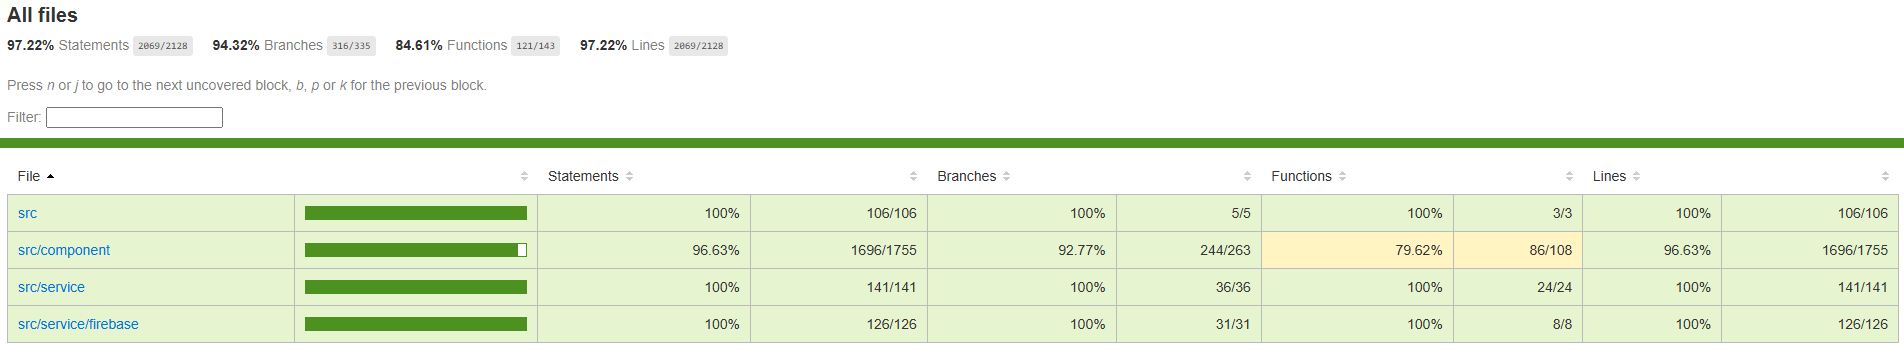
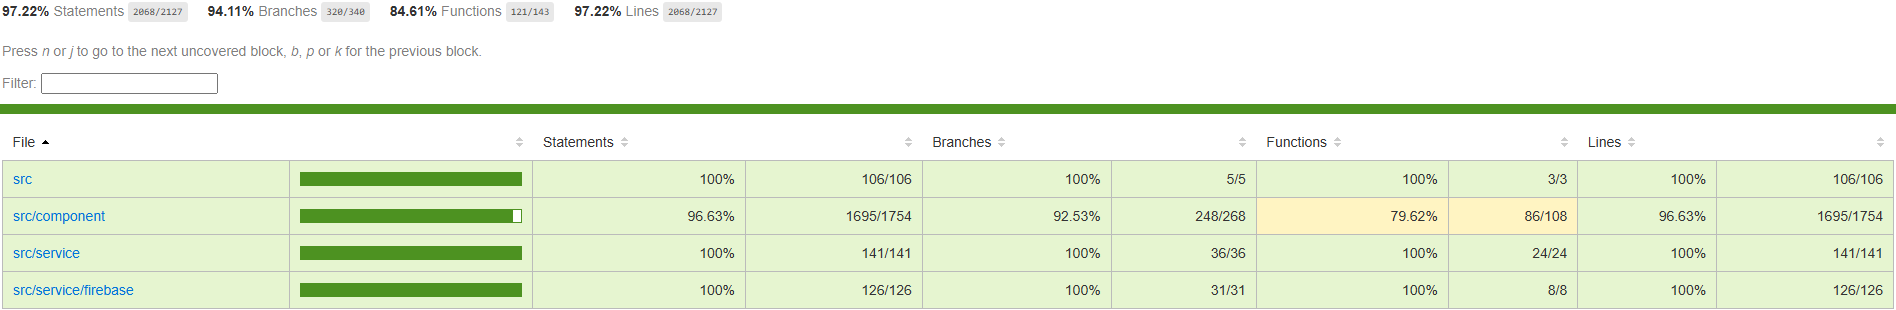
fix: allow 0 ingredients chosen for dish/record

diff --git a/src/component/DishComponent.jsx b/src/component/DishComponent.jsx
@@ -100,10 +100,11 @@ const DishComponent = function () {
                 dishDesc: data.dishDesc,
             },
             ingredientIdQuantityList:
-                data.ingredientsForDish.split(',').map(ingredient => ({
-                    ingredientName: ingredient,
-                    quantity: data[ingredient]
-                }))
+                data.ingredientsForDish
+                    ? data.ingredientsForDish.split(',').map(ingredient => ({
+                        ingredientName: ingredient,
+                        quantity: data[ingredient]
+                    })) : []
 
         }
         if (dishUpdating) {
@@ -129,10 +130,11 @@ const DishComponent = function () {
                 }
             },
             ingredientIdQuantityList:
-                data.ingredientsForDish.split(',').map(ingredient => ({
-                    ingredientName: ingredient,
-                    quantity: data[ingredient]
-                }))
+                data.ingredientsForDish
+                    ? data.ingredientsForDish.split(',').map(ingredient => ({
+                        ingredientName: ingredient,
+                        quantity: data[ingredient]
+                    })) : []
         }
 
         dishRecordService.addDishRecord(dishRecordIngredientDTO).then(response => {

diff --git a/src/component/DishRecordComponent.jsx b/src/component/DishRecordComponent.jsx
@@ -99,10 +99,11 @@ const DishRecordComponent = function () {
                 }
             },
             ingredientIdQuantityList:
-                data.ingredientsForDishRecord.split(',').map(ingredient => ({
-                    ingredientName: ingredient,
-                    quantity: data[ingredient]
-                }))
+                data.ingredientsForDishRecord
+                    ? data.ingredientsForDishRecord.split(',').map(ingredient => ({
+                        ingredientName: ingredient,
+                        quantity: data[ingredient]
+                    })) : []
         }
 
         dishRecordService.updateDishRecord(dishRecordUpdating.dishRecordId, dishRecordIngredientDTO).then(response => {
